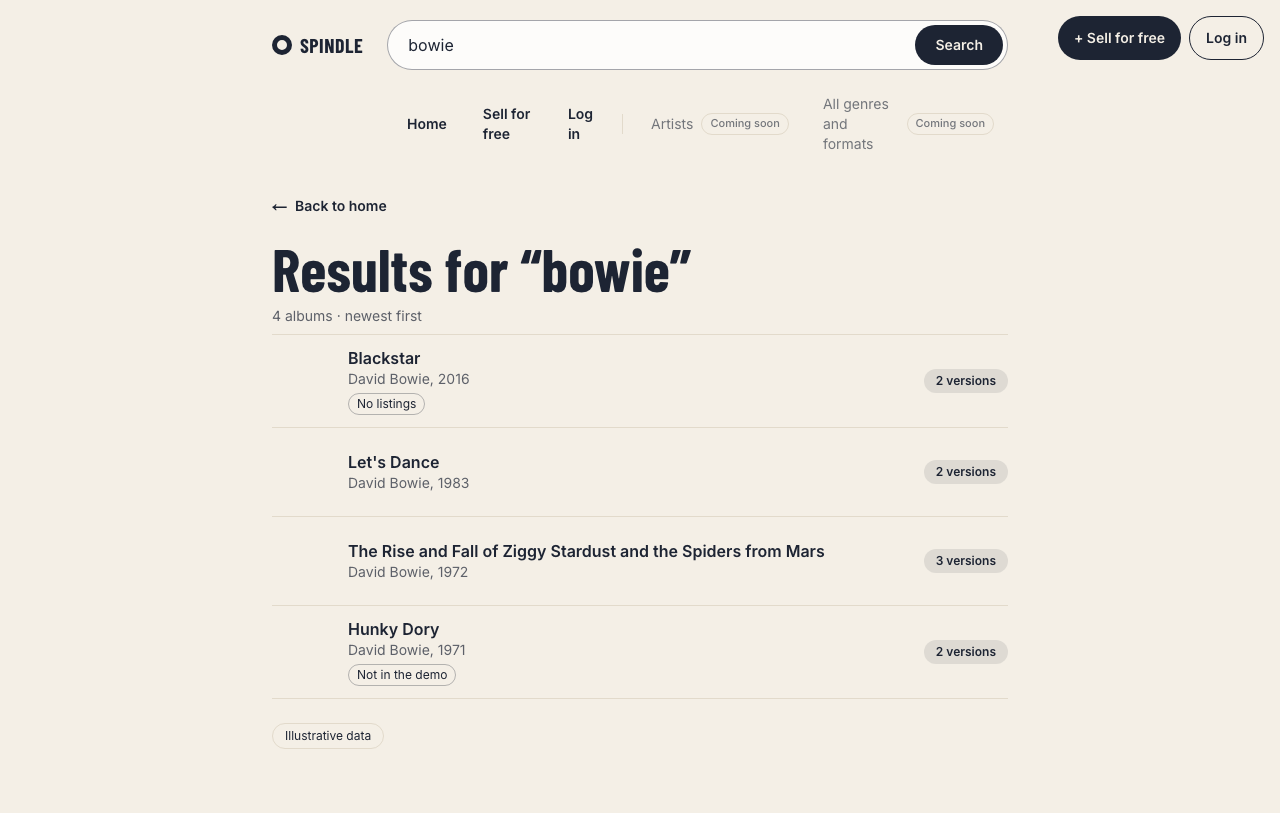
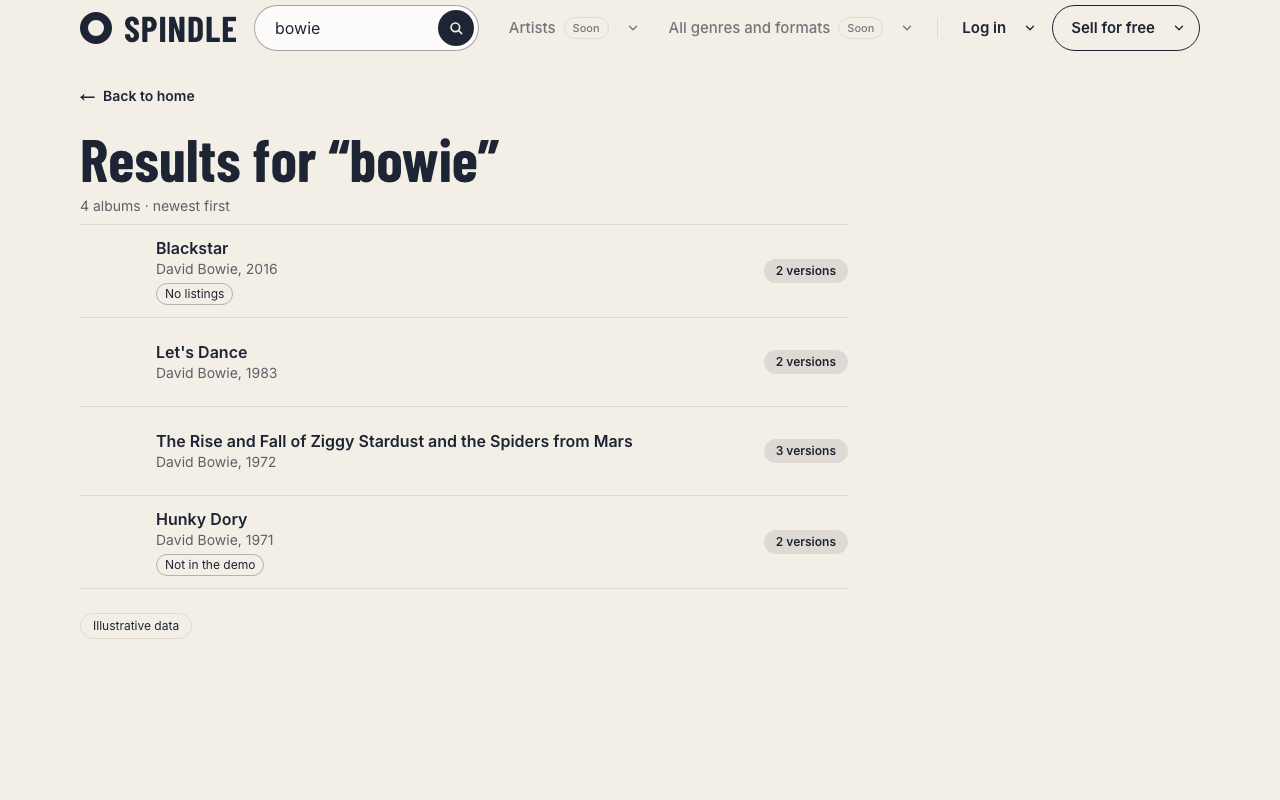
Story 19: search in the top row on every page but the home page; progress report
- Desktop (1280 px and up): the search sits between the logo and the menu, narrowed to fit (magnifier button, "Search records"); the home page keeps its own row; under 1280 px every page keeps the second row
- Suggestion box is wider than the narrow field; the e2e header test now checks the search position and header heights
- DECISIONS entry; docs/PROGRESS.md updated by /mvp-progress (15 of 15 MVP stories built, no working online address yet)

diff --git a/components/HeaderSearch.tsx b/components/HeaderSearch.tsx
@@ -1,46 +1,67 @@
 "use client";
-// Desktop only (story 12): the search sits in the header of every page. Typing and pressing Search opens the results
-// page (story 17, "/search?q="). Not on the sell pages: selling has its own search
+// Desktop only (stories 12, 19): the search sits in the header. On the home page it has its own row under the logo and
+// the menu; on every other page it sits in the top row between the logo and the menu (from 1280 px; under that it keeps
+// the second row), as wide as fits. Typing and
+// pressing Search opens the results page (story 17, "/search?q="). Not on the sell pages: selling has its own search
 // (story 8 · finding #36).
 import { usePathname, useRouter, useSearchParams } from "next/navigation";
 import { useState } from "react";
 import { SuggestionList, useSuggestions } from "./SuggestionBox";
 
-export function HeaderSearch() {
+export function HeaderSearch({ placement }: { placement: "top" | "below" }) {
   const router = useRouter();
-  const onSellPage = usePathname().startsWith("/sell");
+  const path = usePathname();
   const [typed, setTyped] = useState(useSearchParams().get("q") ?? "");
   const box = useSuggestions(typed);
-  if (onSellPage) return null;
-  return (
-    <div ref={box.wrapperRef} className="relative hidden min-w-0 flex-1 lg:block">
-    <form
-      role="search"
-      onSubmit={(e) => {
-        e.preventDefault();
-        router.push(`/search?q=${encodeURIComponent(typed.trim())}`);
-      }}
-    >
-      <label className="flex min-h-12 items-center gap-2 rounded-full border border-navy/40 lg:min-h-[52px] bg-white/80 py-1 pl-5 pr-1 focus-within:border-navy">
-        <span className="sr-only">Album or artist</span>
-        <input
-          type="search"
-          value={typed}
-          onChange={(e) => {
-            setTyped(e.target.value);
-            box.onTyped();
-          }}
-          {...box.inputProps}
-          placeholder="Which record are you after?"
-          autoComplete="off"
-          className="w-full min-w-0 bg-transparent outline-none placeholder:text-navy/50"
-        />
-        <button type="submit" className="min-h-10 shrink-0 rounded-full bg-navy px-5 text-sm font-semibold text-cream">
-          Search
-        </button>
-      </label>
-    </form>
-    <SuggestionList {...box.list} />
+  const onHome = path === "/";
+  // "below": the second row, on the home page, and on the other pages too under 1280 px, where the top row has no room.
+  // "top": between the logo and the menu, on every page but the home page, from 1280 px. Nothing on the sell pages.
+  if (path.startsWith("/sell") || (placement === "top" && onHome)) return null;
+  const top = placement === "top";
+  const search = (
+    <div ref={box.wrapperRef} className={`relative min-w-0 flex-1 ${top ? "hidden xl:mx-4 xl:block" : "hidden lg:block"}`}>
+      <form
+        role="search"
+        onSubmit={(e) => {
+          e.preventDefault();
+          router.push(`/search?q=${encodeURIComponent(typed.trim())}`);
+        }}
+      >
+        <label
+          className={`flex items-center gap-2 rounded-full border border-navy/40 bg-white/80 py-1 pl-5 pr-1 focus-within:border-navy ${
+            top ? "min-h-11" : "min-h-12 lg:min-h-[52px]"
+          }`}
+        >
+          <span className="sr-only">Album or artist</span>
+          <input
+            type="search"
+            value={typed}
+            onChange={(e) => {
+              setTyped(e.target.value);
+              box.onTyped();
+            }}
+            {...box.inputProps}
+            placeholder={top ? "Search records" : "Which record are you after?"}
+            autoComplete="off"
+            className="w-full min-w-0 bg-transparent outline-none placeholder:text-navy/50"
+          />
+          {top ? (
+            // Narrow search in the top row: the button is a magnifier, to leave room for what is typed.
+            <button type="submit" aria-label="Search" className="flex h-9 w-9 shrink-0 items-center justify-center rounded-full bg-navy text-cream">
+              <svg aria-hidden viewBox="0 0 24 24" className="h-4 w-4" fill="none" stroke="currentColor" strokeWidth="2.4" strokeLinecap="round">
+                <circle cx="11" cy="11" r="6.5" />
+                <path d="m16 16 4.5 4.5" />
+              </svg>
+            </button>
+          ) : (
+            <button type="submit" className="min-h-9 shrink-0 rounded-full bg-navy px-5 text-sm font-semibold text-cream">
+              Search
+            </button>
+          )}
+        </label>
+      </form>
+      <SuggestionList {...box.list} wide={top} />
     </div>
   );
+  return top ? search : <div className={`hidden lg:flex lg:h-16 lg:items-center ${onHome ? "" : "xl:hidden"}`}>{search}</div>;
 }

diff --git a/tests/e2e/menu.spec.ts b/tests/e2e/menu.spec.ts
@@ -66,17 +66,28 @@ test("desktop: the menu is in the top row above the search; cells Artists, All g
   await expect(row(page).getByRole("link", { name: "Sell for free" })).toBeVisible();
 });
 
-test("desktop: the header has the same height on every page, with or without the header search", async ({ page }, info) => {
+test("desktop: the search is in the top row between the logo and the menu on every page but the home page, where it has its own row", async ({ page }, info) => {
   desktopOnly(info);
-  const height = async (path: string) => {
+  const header = async (path: string) => {
     await page.goto(path);
-    return Math.round((await page.locator("header").first().boundingBox())!.height);
+    return {
+      height: Math.round((await page.locator("header").first().boundingBox())!.height),
+      logo: await page.getByRole("link", { name: "SPINDLE" }).boundingBox(),
+      search: await page.locator("header").first().getByRole("search").boundingBox().catch(() => null),
+      nav: await row(page).boundingBox(),
+    };
   };
-  const home = await height("/");
-  expect(home).toBeGreaterThan(100);
-  expect(await height("/search?q=bowie")).toBe(home);
-  expect(await height("/login")).toBe(home);
-  expect(await height("/sell/albums/10000000-0000-0000-0000-000000000005")).toBe(home); // no header search on selling pages
+  const home = await header("/");
+  expect(home.search!.y).toBeGreaterThan(home.nav!.y + home.nav!.height - 2); // under the menu
+  const other = await header("/search?q=bowie");
+  expect(other.height).toBeLessThan(home.height); // no second row
+  expect(other.search!.x).toBeGreaterThan(other.logo!.x + other.logo!.width); // between the logo ...
+  expect(other.search!.x + other.search!.width).toBeLessThan(other.nav!.x); // ... and the menu
+  expect(Math.abs(other.search!.y - other.logo!.y)).toBeLessThan(40); // in the same row
+  expect(other.search!.width).toBeGreaterThan(180); // narrowed, not squeezed away
+  expect((await header("/login")).height).toBe(other.height);
+  await page.goto("/search?q=bowie");
+  await screenshot(page, 19, "header-search-top");
 });
 
 test("desktop: the chevron opens a box by hover, click and Enter; Esc and a click outside close it", async ({ page }, info) => {

diff --git a/components/Header.tsx b/components/Header.tsx
@@ -3,9 +3,9 @@ import Link from "next/link";
 import { HeaderSearch } from "./HeaderSearch";
 import { MenuDrawer, MenuRow } from "./MainMenu";
 
-// Shared top bar with the Spindle logo (back to the home page). Desktop (story 19): two rows of fixed height, the same
-// on every page. Top row: the logo on the left, the menu (MenuRow) on the right. Second row: the search, full width;
-// on pages without a header search (selling) it stays as empty space so the page does not jump.
+// Shared top bar with the Spindle logo (back to the home page). Desktop (story 19): the top row is 56 px high, with the
+// logo on the left, the menu (MenuRow) on the right and, on every page but the home page, the search between them
+// (as wide as fits). On the home page the search has its own row under it (64 px, full width).
 // Phone: the logo in the middle, the ☰ drawer top left and the account badge (in the layout) top right.
 export function Header() {
   return (
@@ -16,14 +16,15 @@ export function Header() {
           SPINDLE
         </Link>
         <Suspense>
+          <HeaderSearch placement="top" />
+        </Suspense>
+        <Suspense>
           <MenuRow />
         </Suspense>
       </div>
-      <div className="hidden lg:flex lg:h-16 lg:items-center">
-        <Suspense>
-          <HeaderSearch />
-        </Suspense>
-      </div>
+      <Suspense>
+        <HeaderSearch placement="below" />
+      </Suspense>
       <Suspense>
         <MenuDrawer />
       </Suspense>

diff --git a/components/SuggestionBox.tsx b/components/SuggestionBox.tsx
@@ -122,12 +122,13 @@ export function SuggestionList({
   close,
   retry,
   typed,
-}: ReturnType<typeof useSuggestions>["list"]) {
+  wide = false,
+}: ReturnType<typeof useSuggestions>["list"] & { wide?: boolean }) {
   if (!visible) return null;
   const rowClass = (i: number) =>
     `flex min-h-14 w-full items-center gap-3 border-b border-line px-3.5 py-2 text-left ${highlight === i ? "bg-sand" : ""}`;
   return (
-    <div className="absolute inset-x-0 top-full z-20 mt-2 overflow-hidden rounded-[18px] border border-line bg-white shadow-lg">
+    <div className={`absolute top-full z-20 mt-2 overflow-hidden rounded-[18px] border border-line bg-white shadow-lg ${wide ? "left-0 w-[28rem] max-w-[90vw]" : "inset-x-0"}`}>
       <div className="relative min-h-24">
         {state.kind === "loading" && <LoadingMask label="Searching…" />}
         {state.kind === "error" && (

diff --git a/docs/PROGRESS.md b/docs/PROGRESS.md
@@ -1,34 +1,34 @@
 <!-- page: https://claude.ai/artifact/W2xGvu3nfNcfcuxAv3hYsn -->
 # MVP progress
 
-Updated 2026-11-09 after story 18 (phase 4 closed) · Deadline 15 Nov 2026 · **6 days left**
+Updated 2026-11-10 after story 19 (menu with chevrons) · Deadline 15 Nov 2026 · **5 days left**
 
 ## Summary
-- **Stories:** 14 of 14 MVP stories built (9 with gaps), 0 in progress, 0 not started. Phase 4 is closed: stories 7 (step 3), 17, 4, 16, 15 and 18 are built
-- **Tests:** unit 435/435 · end-to-end 229/238 (9 skipped on purpose: tests that only apply to one screen size, and the failed-upload test, which WebKit cannot run) · all pass in this run
-- **Demo:** every step from the home page, through the search results page and the comparison, to the order confirmation, the rating and selling, is covered by a passing test; the whole path in one go has not been run as one test or rehearsed, and the draft script (`docs/demo-script.md`) predates stories 15, 16 and 18
-- **Next:** the brief items: rehearse and update the demo script, the submission PDF, the 16 manual checks, the push and the online check
-- **Risk:** 6 days for the demo rehearsal, the submission PDF, the 16 manual checks, the 12 open UX findings and the online check. Nothing is left in phase 4 to cut. The end-to-end suite passed cleanly in this run (1.5 min); the earlier slowness on the phone was traced to forms filled before the page was ready, fixed in `tests/e2e/checkout.spec.ts` (2026-11-09), but other specs may still show it
+- **Stories:** 15 of 15 MVP stories built (9 with gaps), 0 in progress, 0 not started. Story 19 (menu with chevrons, replaces the desktop menu of story 15) is built and tested; its header-search placement change of today is not committed yet
+- **Tests:** unit 443/443 · end-to-end 230/244 (12 skipped on purpose) — in the full run 2 phone tests failed (`listingCheck.spec.ts:56`, `sell.spec.ts:181`); both passed when run again on their own, so they are intermittent, not fixed
+- **Demo:** every step from the home page to the order confirmation, the rating and selling is covered by a passing test; the whole path in one go has not been run as one test or rehearsed, and the draft script (`docs/demo-script.md`) predates stories 15, 16, 18 and 19. **There is no working online address today**
+- **Next:** put the app online (criterion 6 and the link S1 are missing), then the demo script and rehearsal, the submission PDF, the 16 manual checks
+- **Risk:** 5 days for a deployment that does not exist yet, the demo rehearsal, the PDF (screenshots must be regenerated after today's layout changes) and the manual checks. Nothing is left in phase 4 to cut. The WebKit phone tests are slow and intermittent in this environment
 
 ## Against the brief
 | Criterion | Status | Evidence / what is missing |
 |---|---|---|
-| 1 · Core features work end to end | Partly | Home page → search (stories 1, 16, 17) or crate → priorities → recommendation → compare → listings → checkout → confirmation → rate the seller, selling and "save to account" are built and tested; not rehearsed as one path |
-| 2 · Data tables | Done | `0001_core.sql` to `0007_reviews.sql` committed and described in `docs/database.md` (applied to the cloud database; `reviews` added today) |
-| 3 · Testing, automated and manual | Partly | Automated: 435 unit and 229 end-to-end tests pass in this run. Manual: the record exists (`docs/manual-tests.md`, 16 checks) but every check still says "Not run" |
-| 4 · LLM good practices in the repo | Done | SPEC.md, `specs/`, CLAUDE.md, ARCHITECTURE.md, DECISIONS.md, `docs/AI_USAGE.md`, tests committed |
-| 5 · UX and UI quality | Partly | UX review register: 12 open (all Low, none High or Blocker), 19 resolved. The screens of stories 15, 16 and 18 are new and were not UX-reviewed; the story 4 and 17 screens were not in the last review either |
-| 6 · App online and reachable | Not checked | The Vercel address is not in the repo, so the page was not opened. 3 commits are not pushed (`origin/main` is behind `main`) |
-| 7 · Live demo | Partly | A draft script exists (`docs/demo-script.md`) but it is not rehearsed and does not cover the menu, the suggestions or the rating |
-| S1 · Link to the app | Not checked | Same as criterion 6 |
-| S2 · PDF with tables and screenshots | Partly | `docs/database.md`, a submission source (`docs/submission/spindle-submission.md`) and screenshots for every built story in `docs/screenshots/` (regenerated today, with the new header); no PDF for this submission yet (`docs/design/Spindle_mockups_by_section.pdf` is Assignment 1) |
+| 1 · Core features work end to end | Partly | Home page → search → priorities → recommendation → compare → listings → checkout → confirmation → rate the seller, selling and "save to account" are built and tested; not rehearsed as one path |
+| 2 · Data tables | Done | `0001_core.sql` to `0007_reviews.sql` committed and described in `docs/database.md` |
+| 3 · Testing, automated and manual | Partly | Automated: 443 unit and 230 end-to-end tests pass in this run (2 intermittent phone failures, see above). Manual: the record exists (`docs/manual-tests.md`, 16 checks) but every check still says "Not run" |
+| 4 · LLM good practices in the repo | Done | SPEC.md, `specs/` (story 19 added today), CLAUDE.md, ARCHITECTURE.md, DECISIONS.md, `docs/AI_USAGE.md`, tests committed |
+| 5 · UX and UI quality | Partly | UX review register: 0 open findings (36 resolved or closed, iteration 6, 2026-11-09). The story 19 header and menu and the search moved to the top row were built after that review and not re-reviewed |
+| 6 · App online and reachable | Missing | The three Vercel addresses tried (`spindle-bb78`, `spindle-d79u`, `spindle-ifrk`) all answer "DEPLOYMENT_NOT_FOUND": the projects were deleted. A new deployment is being set up; its address is not known. All commits are pushed (`99c18e8` on `origin/main`) |
+| 7 · Live demo | Partly | A draft script exists (`docs/demo-script.md`) but it is not rehearsed and does not cover the menu, the suggestions, the rating or the new header |
+| S1 · Link to the app | Missing | Same as criterion 6 |
+| S2 · PDF with tables and screenshots | Partly | `docs/database.md`, a submission source (`docs/submission/spindle-submission.md`) and screenshots for every built story in `docs/screenshots/`; most of them predate today's layout and header changes; no PDF for this submission yet |
 
 ### Missing for the brief, by impact on the grade
-1. Update the demo script for stories 15, 16 and 18, and rehearse the whole path including selling, with realistic data (criterion 7)
-2. Submission PDF: data tables and screenshots of every screen (S2)
-3. Run the 16 manual checks in `docs/manual-tests.md` and fill in the results (criterion 3)
-4. Push, give me the Vercel address and confirm it runs the latest version (criterion 6, S1)
-5. UX review of the story 4, 15, 16, 17 and 18 screens and decide the open Low findings (criterion 5)
+1. Put the app online and check it: a working Vercel project with the three variables (`SUPABASE_SECRET_KEY` from line 5 of `.env.local`, not line 3), open it, confirm it runs the latest commit, give me the address (criterion 6, S1)
+2. Update the demo script for stories 15, 16, 18 and 19 and rehearse the whole path including selling, with realistic data (criterion 7)
+3. Regenerate the screenshots (`npm run screenshots`) and build the submission PDF: data tables and a screenshot of every screen (S2)
+4. Run the 16 manual checks in `docs/manual-tests.md` and fill in the results (criterion 3)
+5. Re-review the screens changed today (header, menu, search in the top row) with the UX review (criterion 5)
 
 ## Build phases
 | Phase | Stories | Status |
@@ -36,7 +36,7 @@ Updated 2026-11-09 after story 18 (phase 4 closed) · Deadline 15 Nov 2026 · **
 | 1 · Core | 1, 2, 3, 5, 6, 12 | Done with gaps |
 | 2 · Purchase | 9 (sign-up, log in), 7, 2 (save to account) | Done with gaps |
 | 3 · Seller | 8 | Done with gaps |
-| 4 · If time allows | 7 step 3, 17, 4, 18 (rate the seller; replaces the reviews of story 9); then 16, 15 | Done with gaps (all built; 16, 15 and 18 added today) |
+| 4 · If time allows | 7 step 3, 17, 4, 18; then 16, 15, 19 | Done with gaps (all built) |
 
 ## Stories
 | Story | Status | Requirements with automated test | Open findings |
@@ -53,8 +53,9 @@ Updated 2026-11-09 after story 18 (phase 4 closed) · Deadline 15 Nov 2026 · **
 | 17 · Search results page | Built with gaps | 3 of 4 | — |
 | 4 · Compare versions | Built with gaps | 6 of 7 | — |
 | 16 · Search suggestions | Built with gaps | 4 of 5 | — |
-| 15 · Menu | Built | 3 of 3 | — |
+| 15 · Menu | Built | 3 of 3 | — (desktop part replaced by story 19) |
 | 18 · Rate the seller | Built | 4 of 4 | — |
+| 19 · Menu with chevrons | Built | 4 of 4 | — |
 
 ## Outside the MVP
 Not counted in the figures above.
@@ -66,11 +67,11 @@ None: story 14 (desktop footer) is outside the MVP (DECISIONS 2026-11-08).
 | Story | Spec file | What the repo says |
 |---|---|---|
 | 14 · Desktop footer | `specs/story-14-footer.md` | Outside the MVP (DECISIONS 2026-11-08); no approved design, links undecided |
-| 10 · No title in the repo | None | Filters (story 1, out of scope); "All genres and formats" (story 12, out of scope; the menu of story 15 shows it as "Coming soon"); "Ask the seller" messaging (story 5, out of scope) |
+| 10 · No title in the repo | None | Filters (story 1, out of scope); "All genres and formats" (story 12, out of scope; the menu shows it as "Soon"); "Ask the seller" messaging (story 5, out of scope) |
 | 11 · No title in the repo | None | 30-second previews (story 3, out of scope); "Spindle Pro" paid plans for shops (story 9, out of scope) |
 | 13 · No title in the repo | None | "Because you like…" with a wishlist (story 12, out of scope) |
 
-Stories 10 and 11 are each mentioned with two different meanings; Assignment 1 is the only source for what they are. Story 15's menu also shows "Artists", a future feature with no story number.
+Stories 10 and 11 are each mentioned with two different meanings; Assignment 1 is the only source for what they are. The menu's "Artists" is a future feature with no story number.
 
 ## Gaps (not tested automatically)
 Every gap below points to a manual check in `docs/manual-tests.md` (none has been run yet). Gaps stay listed here because they are not automated.
@@ -83,9 +84,9 @@ Every gap below points to a manual check in `docs/manual-tests.md` (none has bee
 - Story 12: loading mask and error screen of the genre screen (M10)
 - Story 16: the loading mask "Searching…" of the suggestion box (too short to catch automatically); the error screen is tested
 - Story 17: loading mask and error screen of the results page (M14)
-- Story 4: "exactly one version on sale" is tested by a unit test only; the end-to-end test uses an album with no listings, because the albums with one version are changed by the sell and checkout tests while it runs
+- Story 4: "exactly one version on sale" is tested by a unit test only
 
 ## Before the next story can start
-- There is no next story: phase 4 is closed. Story 14 is outside the MVP.
+- There is no next story: phase 4 is closed and story 19 is built. Story 14 is outside the MVP.
+- Story 19: today's change (search in the top row between the logo and the menu on every page except the home page; under 1280 px the search keeps its own row) is built and tested but not committed, and its DECISIONS entry waits for the Product Owner's yes.
 - Story 4 left open: a listing opened from the version page goes back to the recommendation, not to the version page (DECISIONS 2026-11-09).
-- The manual checks M1–M16 in `docs/manual-tests.md` should be added for stories 15, 16 and 18 if any of their screens cannot be automated (none was found: the menu and the rating are automated).

diff --git a/DECISIONS.md b/DECISIONS.md
@@ -3,6 +3,12 @@
 > Decided **before the first prompt**, as required by the assignment brief (section 5) and Class 2, slide 11.
 > Most recent first.
 
+## 2026-11-10 — Story 19: the search moves to the top row on every page but the home page
+- **Decision:** on desktop, from 1280 px, the search sits in the top row between the logo and the menu on every page except the home page; only the home page keeps the search in its own row under it. Under 1280 px the search keeps its own row on every page. On the sell pages there is still no header search.
+- **Why:** the Product Owner asked for it after seeing the recommendation page: the second row took vertical space on every page.
+- **Replaces in story 19** (built, so its file does not change): "the search full width below" and "same header height on every page". The header is now 56 px high on every page but the home page.
+- **Choices made while building (not in the Product Owner's words):** in the top row the Search button is a magnifier icon and the placeholder reads "Search records", because the field is about 225 px wide; the suggestion box is 28 rem wide, wider than the field; under 1280 px the second row stays, because the top row would leave about 80 px for the field at 1024 px.
+
 ## 2026-11-10 — Story 19: menu with chevrons replaces the desktop menu of story 15
 - **Decision:** a new story, because story 15 is built and tested and its file does not change (CLAUDE.md). On desktop the row under the search is replaced by cells with chevrons in the top row; the loose "+ Sell for free" and account badge leave the top-right corner. The phone drawer of story 15 stays and gains chevrons.
 - **Why:** the row under the search box was confusing, and every working item in it already existed elsewhere (logo, Sell button, account badge).
